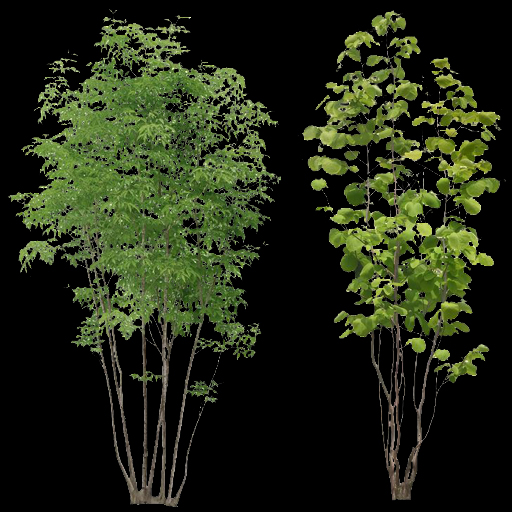
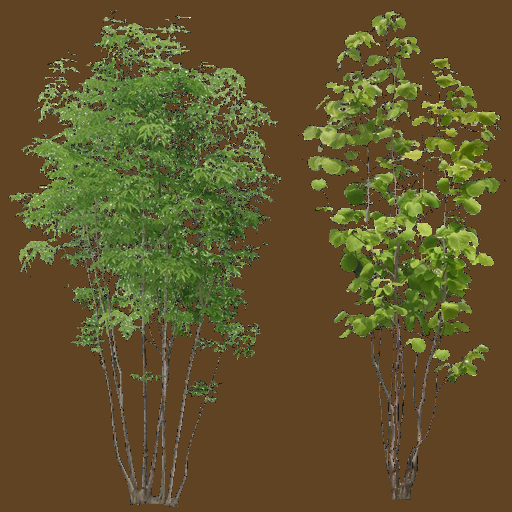
Fix light position

diff --git a/srcs/gui/g_ingame.c b/srcs/gui/g_ingame.c
@@ -6,7 +6,7 @@
 /*   By: llelievr <llelievr@student.42.fr>          +#+  +:+       +#+        */
 /*                                                +#+#+#+#+#+   +#+           */
 /*   Created: 2019/04/24 11:22:28 by llelievr          #+#    #+#             */
-/*   Updated: 2020/01/09 04:43:12 by llelievr         ###   ########.fr       */
+/*   Updated: 2020/01/10 01:48:11 by llelievr         ###   ########.fr       */
 /*                                                                            */
 /* ************************************************************************** */
 
@@ -304,11 +304,16 @@ void	draw_object_transform_type(t_editor *editor, t_gui *self)
 	SDL_FreeSurface(text);
 }
 
+float t = 0;
+
 void	g_ingame_render(t_gui *self, t_doom *doom)
 {
-	
-	
-	
+	t += 0.05;
+
+	//doom->lights->values[0].dir.z = 1;
+	doom->lights->values[0].position.y = 1;
+	doom->lights->values[0].position.z = 25 + (50) * ((sin(t) + 1) / 2);
+
 	update_controls(doom);
 	doom->main_context.image = &doom->screen;
 	for (int i = 0; i < S_WIDTH * S_HEIGHT; i++)
@@ -359,6 +364,7 @@ void	g_ingame_render(t_gui *self, t_doom *doom)
 
 	for (int i = 0; i < doom->lights->len; i++)
 	{
+		{
 		t_renderable	*sphere = &doom->sphere_primitive;
 		t_light			*light = &doom->lights->values[i];
 		sphere->position = light->position;
@@ -368,6 +374,18 @@ void	g_ingame_render(t_gui *self, t_doom *doom)
 		sphere->dirty = TRUE;
 		//sphere->double_faced = FALSE;
 		render_renderable(&doom->main_context, sphere);
+		}
+		{
+			t_renderable	*sphere = &doom->sphere_primitive;
+			t_light			*light = &doom->lights->values[i];
+			sphere->position = ft_vec3_mul_s(ft_vec3_add(light->position, light->dir), 1);
+			sphere->scale = (t_vec3){ 0.2, 0.2, 0.2 };
+			sphere->wireframe = TRUE;
+			sphere->wireframe_color = 0xFFFFFF00;
+			sphere->dirty = TRUE;
+			//sphere->double_faced = FALSE;
+			render_renderable(&doom->main_context, sphere);
+		}
 	}
 
 	doom->main_context.image->pixels[(doom->main_context.image->height / 2) * doom->main_context.image->width + doom->main_context.image->width / 2 ] = 0xFF00FF00;

diff --git a/srcs/main.c b/srcs/main.c
@@ -3,10 +3,10 @@
 /*                                                        :::      ::::::::   */
 /*   main.c                                             :+:      :+:    :+:   */
 /*                                                    +:+ +:+         +:+     */
-/*   By: lloncham <lloncham@student.42.fr>          +#+  +:+       +#+        */
+/*   By: llelievr <llelievr@student.42.fr>          +#+  +:+       +#+        */
 /*                                                +#+#+#+#+#+   +#+           */
 /*   Created: 2019/04/16 19:47:26 by llelievr          #+#    #+#             */
-/*   Updated: 2020/01/07 15:00:48 by lloncham         ###   ########.fr       */
+/*   Updated: 2020/01/09 18:31:59 by llelievr         ###   ########.fr       */
 /*                                                                            */
 /* ************************************************************************** */
 
@@ -72,6 +72,9 @@ void	init_bsp(t_doom *doom)
 	r.fixed = TRUE;
 	append_renderables_array(&doom->renderables, r);
 
+
+	
+
 //	post_process_map(doom);
 }
 
@@ -103,6 +106,18 @@ int		main(int argc, char **argv)
 		.editor = { .map_renderable = -1 }
 	};
 
+
+	t_vec3 pointa = (t_vec3){ 0, 0, 5 };
+	t_vec3 pointb = (t_vec3){ 0, 2, 5 };
+	t_vec3 pos = (t_vec3){ 0, 0, 10 };
+	t_vec3 normala = (t_vec3){ 0.5, 0, 0.5 };
+	t_vec3 normalb = (t_vec3){ 0, 0.5, 0.5 };
+	for (float i = 0; i < 1; i += 0.01)
+	{
+		float a = ft_vec3_dot(vec4_to_3(ft_vec4_interpolate(vec3_to_4(normala), vec3_to_4(normalb), ((float)i))), ft_vec3_norm(ft_vec3_sub(pos, vec4_to_3(ft_vec4_interpolate(vec3_to_4(pointa), vec3_to_4(pointb), (float)(i)))))) * 255;
+		float b = 127.5 + (71.028534 - 127.5) * ((float)i);
+		printf("%f %f %f\n", i, a, b);
+	}
 
 	if (argc != 2)
 	{

diff --git a/srcs/render.c b/srcs/render.c
@@ -3,10 +3,10 @@
 /*                                                        :::      ::::::::   */
 /*   render.c                                           :+:      :+:    :+:   */
 /*                                                    +:+ +:+         +:+     */
-/*   By: lloncham <lloncham@student.42.fr>          +#+  +:+       +#+        */
+/*   By: llelievr <llelievr@student.42.fr>          +#+  +:+       +#+        */
 /*                                                +#+#+#+#+#+   +#+           */
 /*   Created: 2019/04/17 16:49:48 by llelievr          #+#    #+#             */
-/*   Updated: 2020/01/07 15:56:03 by lloncham         ###   ########.fr       */
+/*   Updated: 2020/01/10 01:47:46 by llelievr         ###   ########.fr       */
 /*                                                                            */
 /* ************************************************************************** */
 
@@ -56,12 +56,15 @@ static float	get_light_intensity(t_render_context *ctx, t_renderable *r, t_vec3 
 		//float d = ft_vec3_dot(normal, ft_vec3_sub(light->position, vec4_to_3(point)));
 		// if (d > 5)
 		// 	continue;
-		valid++;
-		light->rotation.y -=light->rotation.y;
-		sum += ft_max(AMBIANT_LIGHT, fmin(1, fmax(0, ft_vec3_dot(normal, ft_vec3_sub(light->rotation, light->position)))) * 255);
+		t_vec3 dir = ft_vec3_norm(ft_vec3_sub(light->position, vec4_to_3(point)));
+		if (ft_vec3_dot(dir, light->dir) >= cosf(M_PI / 10))
+		{
+			valid++;
+			sum += ft_max(AMBIANT_LIGHT, ft_vec3_dot(normal, dir) * 255);
+		}
 	}
 	if (valid == 0)
-		return 25;
+		return AMBIANT_LIGHT;
 	return sum / (float)valid;
 }
 

diff --git a/srcs/light/light_mapping.c b/srcs/light/light_mapping.c
@@ -6,7 +6,7 @@
 /*   By: llelievr <llelievr@student.42.fr>          +#+  +:+       +#+        */
 /*                                                +#+#+#+#+#+   +#+           */
 /*   Created: 2019/08/28 14:22:33 by llelievr          #+#    #+#             */
-/*   Updated: 2019/11/16 22:25:54 by llelievr         ###   ########.fr       */
+/*   Updated: 2020/01/10 01:48:15 by llelievr         ###   ########.fr       */
 /*                                                                            */
 /* ************************************************************************** */
 
@@ -28,19 +28,19 @@
 	// 	.rotation = ((t_vec3){ M_PI - -M_PI_4,  M_PI, 0 })
 	// });
 	append_lights_array(&doom->lights,(t_light) {
-		.position = { 1.3, 0.5, 2.0 },
-		.rotation = ((t_vec3){ 0, 0, 0 })
+		.position = { 20, 0, 70 },
+		.dir = ((t_vec3){ -1, 0, 0 })
 	});
 }
 
-t_ray			create_ray(t_light *light, t_vec3 direction)
-{
-	t_vec3 d = vec3_rotate(direction, (t_vec3){-light->rotation.x, light->rotation.y, -light->rotation.z});
-	return ((t_ray){
-		.origin = light->position,
-		.direction = d
-	});
-}
+// t_ray			create_ray(t_light *light, t_vec3 direction)
+// {
+// 	t_vec3 d = vec3_rotate(direction, (t_vec3){-light->rotation.x, light->rotation.y, -light->rotation.z});
+// 	return ((t_ray){
+// 		.origin = light->position,
+// 		.direction = d
+// 	});
+// }
 
 // t_collision		hit_scene(t_doom *doom, t_ray *ray) 
 // {

diff --git a/srcs/ressources/ressource_model.c b/srcs/ressources/ressource_model.c
@@ -6,7 +6,7 @@
 /*   By: llelievr <llelievr@student.42.fr>          +#+  +:+       +#+        */
 /*                                                +#+#+#+#+#+   +#+           */
 /*   Created: 2019/11/25 10:50:33 by llelievr          #+#    #+#             */
-/*   Updated: 2019/12/18 19:41:14 by llelievr         ###   ########.fr       */
+/*   Updated: 2020/01/09 17:11:12 by llelievr         ###   ########.fr       */
 /*                                                                            */
 /* ************************************************************************** */
 
@@ -127,6 +127,7 @@ t_bool		read_model(t_ressource_manager *r, t_renderable **m)
 	}
 	model->fixed = TRUE;
 	model->scale = (t_vec3){ 1, 1, 1 };
+	model->visible = TRUE;
 	post_process_renderable(r->doom, model, TRUE, FALSE);
 	*m = model;
 	return (TRUE);

diff --git a/includes/constants.h b/includes/constants.h
@@ -6,7 +6,7 @@
 /*   By: llelievr <llelievr@student.42.fr>          +#+  +:+       +#+        */
 /*                                                +#+#+#+#+#+   +#+           */
 /*   Created: 2019/04/16 21:05:41 by llelievr          #+#    #+#             */
-/*   Updated: 2019/11/27 15:55:02 by llelievr         ###   ########.fr       */
+/*   Updated: 2020/01/09 17:35:54 by llelievr         ###   ########.fr       */
 /*                                                                            */
 /* ************************************************************************** */
 
@@ -56,7 +56,7 @@
 # define GUI_RESSOURCES (4)
 # define GUI_EDITOR_SETTINGS (5)
 
-# define AMBIANT_LIGHT (100)
+# define AMBIANT_LIGHT (50)
 
 # define MAX_SOUNDS (20)
 # define CHAR_SHOOTING (MAX_SOUNDS - 1)

diff --git a/includes/light.h b/includes/light.h
@@ -6,7 +6,7 @@
 /*   By: llelievr <llelievr@student.42.fr>          +#+  +:+       +#+        */
 /*                                                +#+#+#+#+#+   +#+           */
 /*   Created: 2019/08/30 04:25:19 by llelievr          #+#    #+#             */
-/*   Updated: 2019/11/19 01:03:48 by llelievr         ###   ########.fr       */
+/*   Updated: 2020/01/10 01:32:22 by llelievr         ###   ########.fr       */
 /*                                                                            */
 /* ************************************************************************** */
 
@@ -19,7 +19,7 @@
 typedef struct		s_light
 {
 	t_vec3				position;
-	t_vec3				rotation;
+	t_vec3				dir;
 	t_render_context	context;
 }					t_light;
 
